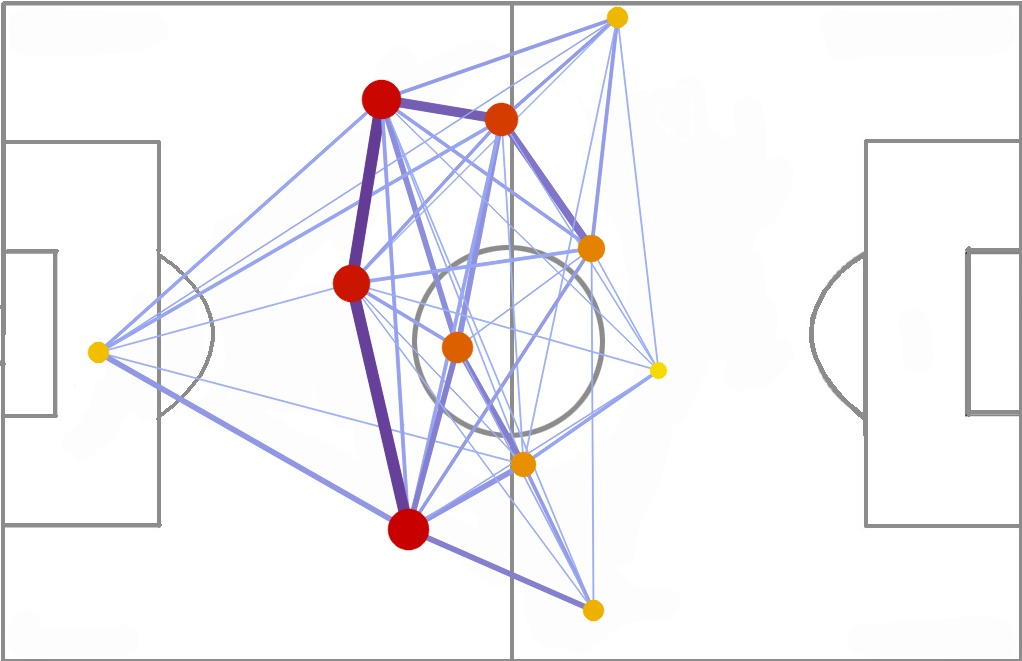
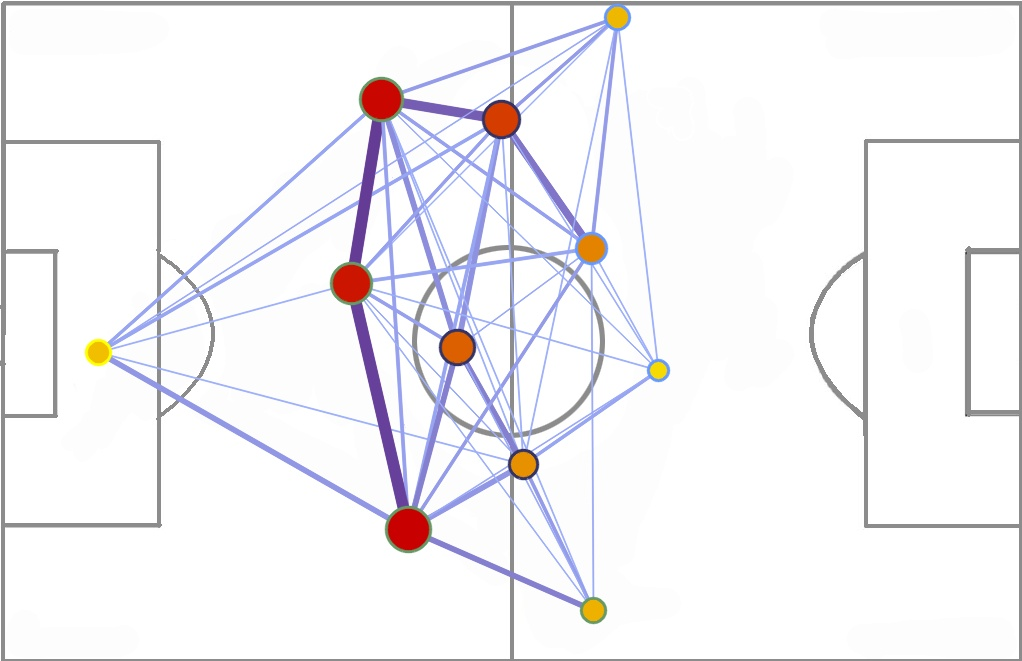
Update.

diff --git a/.vscode/.ropeproject/config.py b/.vscode/.ropeproject/config.py
@@ -1,0 +1,114 @@
+# The default ``config.py``
+# flake8: noqa
+
+
+def set_prefs(prefs):
+    """This function is called before opening the project"""
+
+    # Specify which files and folders to ignore in the project.
+    # Changes to ignored resources are not added to the history and
+    # VCSs.  Also they are not returned in `Project.get_files()`.
+    # Note that ``?`` and ``*`` match all characters but slashes.
+    # '*.pyc': matches 'test.pyc' and 'pkg/test.pyc'
+    # 'mod*.pyc': matches 'test/mod1.pyc' but not 'mod/1.pyc'
+    # '.svn': matches 'pkg/.svn' and all of its children
+    # 'build/*.o': matches 'build/lib.o' but not 'build/sub/lib.o'
+    # 'build//*.o': matches 'build/lib.o' and 'build/sub/lib.o'
+    prefs['ignored_resources'] = ['*.pyc', '*~', '.ropeproject',
+                                  '.hg', '.svn', '_svn', '.git', '.tox']
+
+    # Specifies which files should be considered python files.  It is
+    # useful when you have scripts inside your project.  Only files
+    # ending with ``.py`` are considered to be python files by
+    # default.
+    # prefs['python_files'] = ['*.py']
+
+    # Custom source folders:  By default rope searches the project
+    # for finding source folders (folders that should be searched
+    # for finding modules).  You can add paths to that list.  Note
+    # that rope guesses project source folders correctly most of the
+    # time; use this if you have any problems.
+    # The folders should be relative to project root and use '/' for
+    # separating folders regardless of the platform rope is running on.
+    # 'src/my_source_folder' for instance.
+    # prefs.add('source_folders', 'src')
+
+    # You can extend python path for looking up modules
+    # prefs.add('python_path', '~/python/')
+
+    # Should rope save object information or not.
+    prefs['save_objectdb'] = True
+    prefs['compress_objectdb'] = False
+
+    # If `True`, rope analyzes each module when it is being saved.
+    prefs['automatic_soa'] = True
+    # The depth of calls to follow in static object analysis
+    prefs['soa_followed_calls'] = 0
+
+    # If `False` when running modules or unit tests "dynamic object
+    # analysis" is turned off.  This makes them much faster.
+    prefs['perform_doa'] = True
+
+    # Rope can check the validity of its object DB when running.
+    prefs['validate_objectdb'] = True
+
+    # How many undos to hold?
+    prefs['max_history_items'] = 32
+
+    # Shows whether to save history across sessions.
+    prefs['save_history'] = True
+    prefs['compress_history'] = False
+
+    # Set the number spaces used for indenting.  According to
+    # :PEP:`8`, it is best to use 4 spaces.  Since most of rope's
+    # unit-tests use 4 spaces it is more reliable, too.
+    prefs['indent_size'] = 4
+
+    # Builtin and c-extension modules that are allowed to be imported
+    # and inspected by rope.
+    prefs['extension_modules'] = []
+
+    # Add all standard c-extensions to extension_modules list.
+    prefs['import_dynload_stdmods'] = True
+
+    # If `True` modules with syntax errors are considered to be empty.
+    # The default value is `False`; When `False` syntax errors raise
+    # `rope.base.exceptions.ModuleSyntaxError` exception.
+    prefs['ignore_syntax_errors'] = False
+
+    # If `True`, rope ignores unresolvable imports.  Otherwise, they
+    # appear in the importing namespace.
+    prefs['ignore_bad_imports'] = False
+
+    # If `True`, rope will insert new module imports as
+    # `from <package> import <module>` by default.
+    prefs['prefer_module_from_imports'] = False
+
+    # If `True`, rope will transform a comma list of imports into
+    # multiple separate import statements when organizing
+    # imports.
+    prefs['split_imports'] = False
+
+    # If `True`, rope will remove all top-level import statements and
+    # reinsert them at the top of the module when making changes.
+    prefs['pull_imports_to_top'] = True
+
+    # If `True`, rope will sort imports alphabetically by module name instead
+    # of alphabetically by import statement, with from imports after normal
+    # imports.
+    prefs['sort_imports_alphabetically'] = False
+
+    # Location of implementation of
+    # rope.base.oi.type_hinting.interfaces.ITypeHintingFactory In general
+    # case, you don't have to change this value, unless you're an rope expert.
+    # Change this value to inject you own implementations of interfaces
+    # listed in module rope.base.oi.type_hinting.providers.interfaces
+    # For example, you can add you own providers for Django Models, or disable
+    # the search type-hinting in a class hierarchy, etc.
+    prefs['type_hinting_factory'] = (
+        'rope.base.oi.type_hinting.factory.default_type_hinting_factory')
+
+
+def project_opened(project):
+    """This function is called after opening the project"""
+    # Do whatever you like here!

diff --git a/problem2_solve1.py b/problem2_solve1.py
@@ -1,0 +1,118 @@
+# The passing network in a play.
+import numpy as np
+import cv2
+import csv
+
+# Hyper parameters.
+
+is_huskies: bool = True
+matchid = 1
+
+# Read the match Result file.
+match_file = list(csv.reader(open('./data/matches.csv')))[1:]
+
+while matchid <= 38:
+    passing_list = None
+    # Loading the matching data.
+    # Read the csv file.
+    csv_reader = csv.reader(open('./data/passingevents.csv'))
+
+    if is_huskies:
+        passing_list = [row for row in csv_reader if row[0]
+                        == str(matchid) and row[1] == 'Huskies']
+    else:
+        passing_list = [row for row in csv_reader if row[0]
+                        == str(matchid) and row[1] != 'Huskies']
+    passing_cnt = len(passing_list)
+
+    # Analyzing the data.
+    player_map = {}
+    player_list = []
+    for row in passing_list:
+        if player_map.get(row[2]) is None:
+            player_map[row[2]] = len(player_list)
+            player_list.append(row[2])
+        if player_map.get(row[3]) is None:
+            player_map[row[3]] = len(player_list)
+            player_list.append(row[3])
+
+    player_cnt = len(player_list)
+    w: np.ndarray = np.zeros((player_cnt, player_cnt))
+    player_pos = np.zeros((player_cnt, 2))
+    player_passing_cnt = np.zeros(player_cnt)
+
+    # Count the passing cnt.
+    for row in passing_list:
+        origin_id = player_map[row[2]]
+        dest_id = player_map[row[3]]
+
+        # Update the passing matrix.
+        if origin_id != dest_id:
+            w[origin_id][dest_id] += 1
+
+        # Update the player's position.
+        player_pos[origin_id][0] += float(row[7])
+        player_pos[origin_id][1] += float(row[8])
+        player_pos[dest_id][0] += float(row[9])
+        player_pos[dest_id][1] += float(row[10])
+
+        player_passing_cnt[origin_id] += 1
+        player_passing_cnt[dest_id] += 1
+
+    for pos in range(player_cnt):
+        if player_passing_cnt[pos] != 0:
+            player_pos[pos][0] /= player_passing_cnt[pos]
+            player_pos[pos][1] /= player_passing_cnt[pos]
+
+    # Calculate the clustering coefficient.
+    cw_list = []
+    for i in range(player_cnt):
+        cw1 = 0
+        cw2 = 0
+        for j in range(player_cnt):
+            for k in range(player_cnt):
+                cw1 += w[i, j] * w[j, k] * w[i, k]
+                cw2 += w[i, j] * w[i, k]
+        cw_list.append(cw1 / cw2 if cw2 != 0 else 0)
+    C_ans = np.mean(np.array(cw_list))
+
+    # Calculate the shortest path.
+    d = 1.0 / (w + 1e-9)
+    for k in range(player_cnt):
+        for i in range(player_cnt):
+            for j in range(player_cnt):
+                if d[i, j] > d[i, k] + d[k, j]:
+                    d[i, j] = d[i, k] + d[k, j]
+
+    # Remove the dirty data.
+    d_cnt = 0
+    d_sum = 0.0
+    for i in range(player_cnt):
+        for j in range(player_cnt):
+            if i != j and d[i, j] < 1e5:
+                d_sum += d[i, j]
+                d_cnt += 1
+
+    D_ans = d_sum / d_cnt
+
+    # Calculate the largest eigenvalue of the adjacency matrix.
+    L1_ans = np.max(np.linalg.eig(w)[0].real)
+
+    # Calculate the second smallest eigenvalue of the Laplacian matrix L = S - A.
+    S_matrix = np.diag([np.sum(w[i]) for i in range(player_cnt)])
+    L_matrix = S_matrix - w
+    L_val: list = np.linalg.eig(L_matrix)[0].real.tolist()
+    L_val.sort()
+    L2_ans = L_val[1]
+
+    # Print the ans.
+    print(
+        f'MatchID:{matchid} Huskies:{is_huskies} C:{C_ans} D:{D_ans} L1:{L1_ans} L2:{L2_ans} '
+        f'HuskiesResult:{match_file[matchid-1][2]}')
+
+    # Continue.
+    if is_huskies:
+        is_huskies = False
+    else:
+        is_huskies = True
+        matchid += 1

diff --git a/problem_visual3.py b/problem_visual3.py
@@ -1,0 +1,103 @@
+# Plays of the season.
+import numpy as np
+import cv2
+import csv
+import matplotlib.pyplot as plt
+import matlab.engine
+plt.rc('font', family='Times New Roman')
+
+
+# Read the csv file.
+csv_reader = csv.reader(open('./data/passingevents.csv'))
+
+# The first match.(First match and self passing only.)
+passing_list = [row for row in csv_reader if row[1] == 'Huskies']
+# Fix the time of 2H.
+for p in passing_list:
+    if p[4] == '2H':
+        p[5] = str(float(p[5])+2700)
+passing_cnt = len(passing_list)
+
+# Count the player's average pos in a single play.
+player_map = {}
+
+t = 0
+pass_i = 0
+
+
+def add_to_player_map(player: str, x, y):
+    '''
+    A function to add the position to the player.
+    '''
+    if player_map.get(player) is None:
+        player_map[player] = {'x': x, 'y': y, 'cnt': 1}
+    else:
+        player_map[player]['x'] += x
+        player_map[player]['y'] += y
+        player_map[player]['cnt'] += 1
+
+
+center_x = []
+center_y = []
+ds = []
+spd = []
+
+while pass_i < len(passing_list):
+    t += 1
+    dx_sum = 0.0
+    dy_sum = 0.0
+    player_map.clear()
+    while pass_i < len(passing_list) and float(passing_list[pass_i][0]) <= t:
+        cur_pass = passing_list[pass_i]
+        add_to_player_map(cur_pass[2], float(cur_pass[7]), float(cur_pass[8]))
+        add_to_player_map(cur_pass[3], float(cur_pass[9]), float(cur_pass[10]))
+
+        dx_sum += abs(float(cur_pass[9]) - float(cur_pass[7]))
+        dy_sum += abs(float(cur_pass[10]) - float(cur_pass[8]))
+        pass_i += 1
+
+    # Caculate the center x.
+    x_sum = 0
+    y_sum = 0
+    d_sum = 0
+
+    for k, v in player_map.items():
+        x_sum += v['x'] / v['cnt']
+        y_sum += v['y'] / v['cnt']
+    center_x.append(x_sum / len(player_map))
+    center_y.append(y_sum / len(player_map))
+
+    for k, v in player_map.items():
+        d_sum += (v['x'] / v['cnt'] - center_x[-1]) ** 2 + \
+            (v['y'] / v['cnt'] - center_y[-1]) ** 2
+    ds.append(d_sum / len(player_map))
+    spd.append(dx_sum / dy_sum)
+
+# Plot
+plt.plot(center_x, color='blue', linewidth=1.0)
+plt.ylim((0, 100))
+plt.xlabel('Match ID')
+plt.ylabel('x')
+plt.title('<X> pos')
+plt.show()
+
+plt.plot(center_y, color='blue', linewidth=1.0)
+plt.ylim((0, 100))
+plt.xlabel('Match ID')
+plt.ylabel('y')
+plt.title('<Y> pos')
+plt.show()
+
+plt.plot(ds, color='blue', linewidth=1.0)
+plt.ylim((0, 1300))
+plt.xlabel('Match ID')
+plt.ylabel('ds')
+plt.title('D')
+plt.show()
+
+plt.plot(spd, color='blue', linewidth=1.0)
+plt.ylim((0, 1.0))
+plt.xlabel('Match ID')
+plt.ylabel('speed')
+plt.title('Speed')
+plt.show()

diff --git a/problem1_visual1.py b/problem1_visual1.py
@@ -10,9 +10,14 @@ LINE_COLOR_UB = (150, 60, 100)
 POINT_COLOR_UB = (0, 255, 255)
 LINE_COLOR_LB = (255, 180, 160)
 POINT_COLOR_LB = (0, 0, 200)
+# Blue: F, Green: D, Purple: M, Yellow: G.
+PLAYER_COLOR = {'F': (0xff, 0x99, 0x66), 'D': (0x66, 0x99, 0x66),
+                'M': (0x66, 0x33, 0x33), 'G': (0, 0xff, 0xff)}
+
 LINE_WIDTH_LB = 1
 LINE_WIDTH_UB = 10
 POINT_RADIUS = 20
+PLAYER_BORDER = 3
 
 # Read the csv file.
 csv_reader = csv.reader(open('./data/passingevents.csv'))
@@ -20,6 +25,7 @@ csv_reader = csv.reader(open('./data/passingevents.csv'))
 # The first match.(First match and self passing only.)
 passing_list = [row for row in csv_reader if row[0]
                 == '1' and row[1] == 'Huskies' and row[4] == '1H']
+
 passing_cnt = len(passing_list)
 
 # Analyzing the data.
@@ -104,7 +110,9 @@ for i in range(player_cnt):
                   (max_player - min_player))
     radius = int((1 - (1 - player_passing_cnt[i] /
                        (max_player - min_player)) * 0.65) * POINT_RADIUS)
-
+    border_color = PLAYER_COLOR[player_list[i][-2]]
+    cv2.circle(img, pos_transforms(player_pos[i]), radius + PLAYER_BORDER,
+               border_color, -1, cv2.LINE_AA)
     cv2.circle(img, pos_transforms(player_pos[i]), radius,
                color_transforms(POINT_COLOR_LB, POINT_COLOR_UB, color_rate), -1, cv2.LINE_AA)
 

diff --git a/matt.py b/matt.py
@@ -1,0 +1,7 @@
+import matlab.engine
+
+eng = matlab.engine.start_matlab()
+a = [1, 2, 3]
+a = matlab.int8(a)
+b = eng.mattest(a)
+print(b)

diff --git a/mattest.m b/mattest.m
@@ -1,0 +1,4 @@
+function output = mattest(x)
+%mattest
+output = zeros(x);
+end
